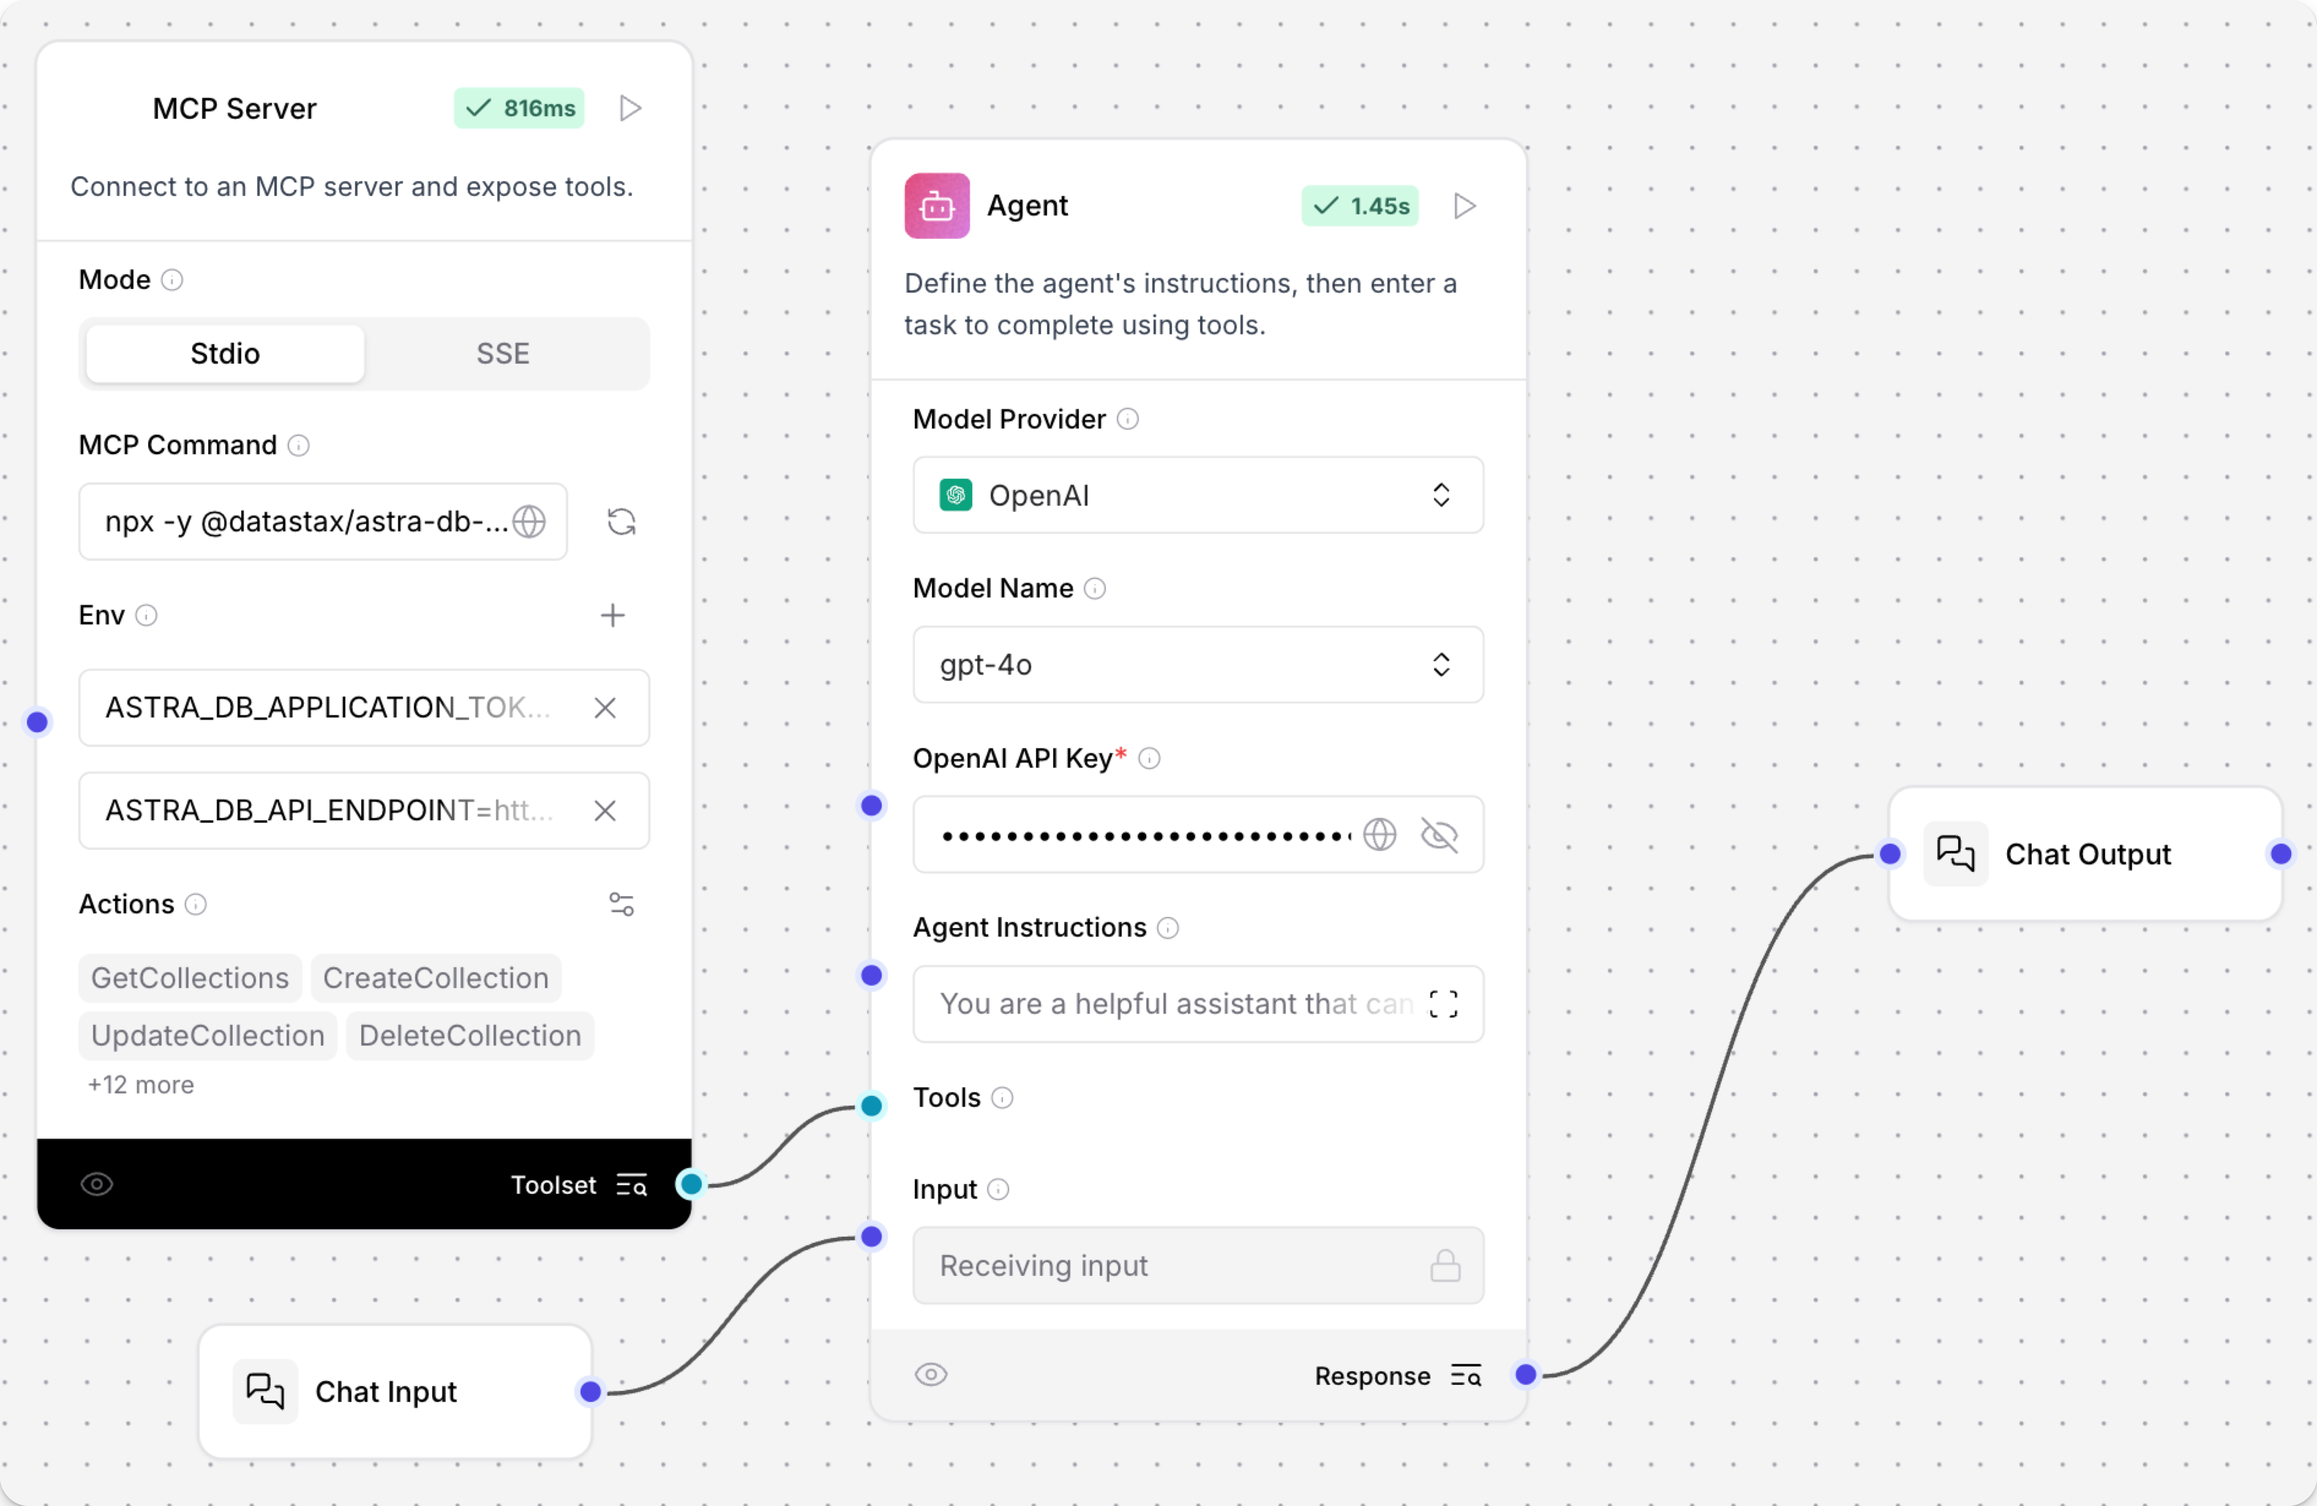
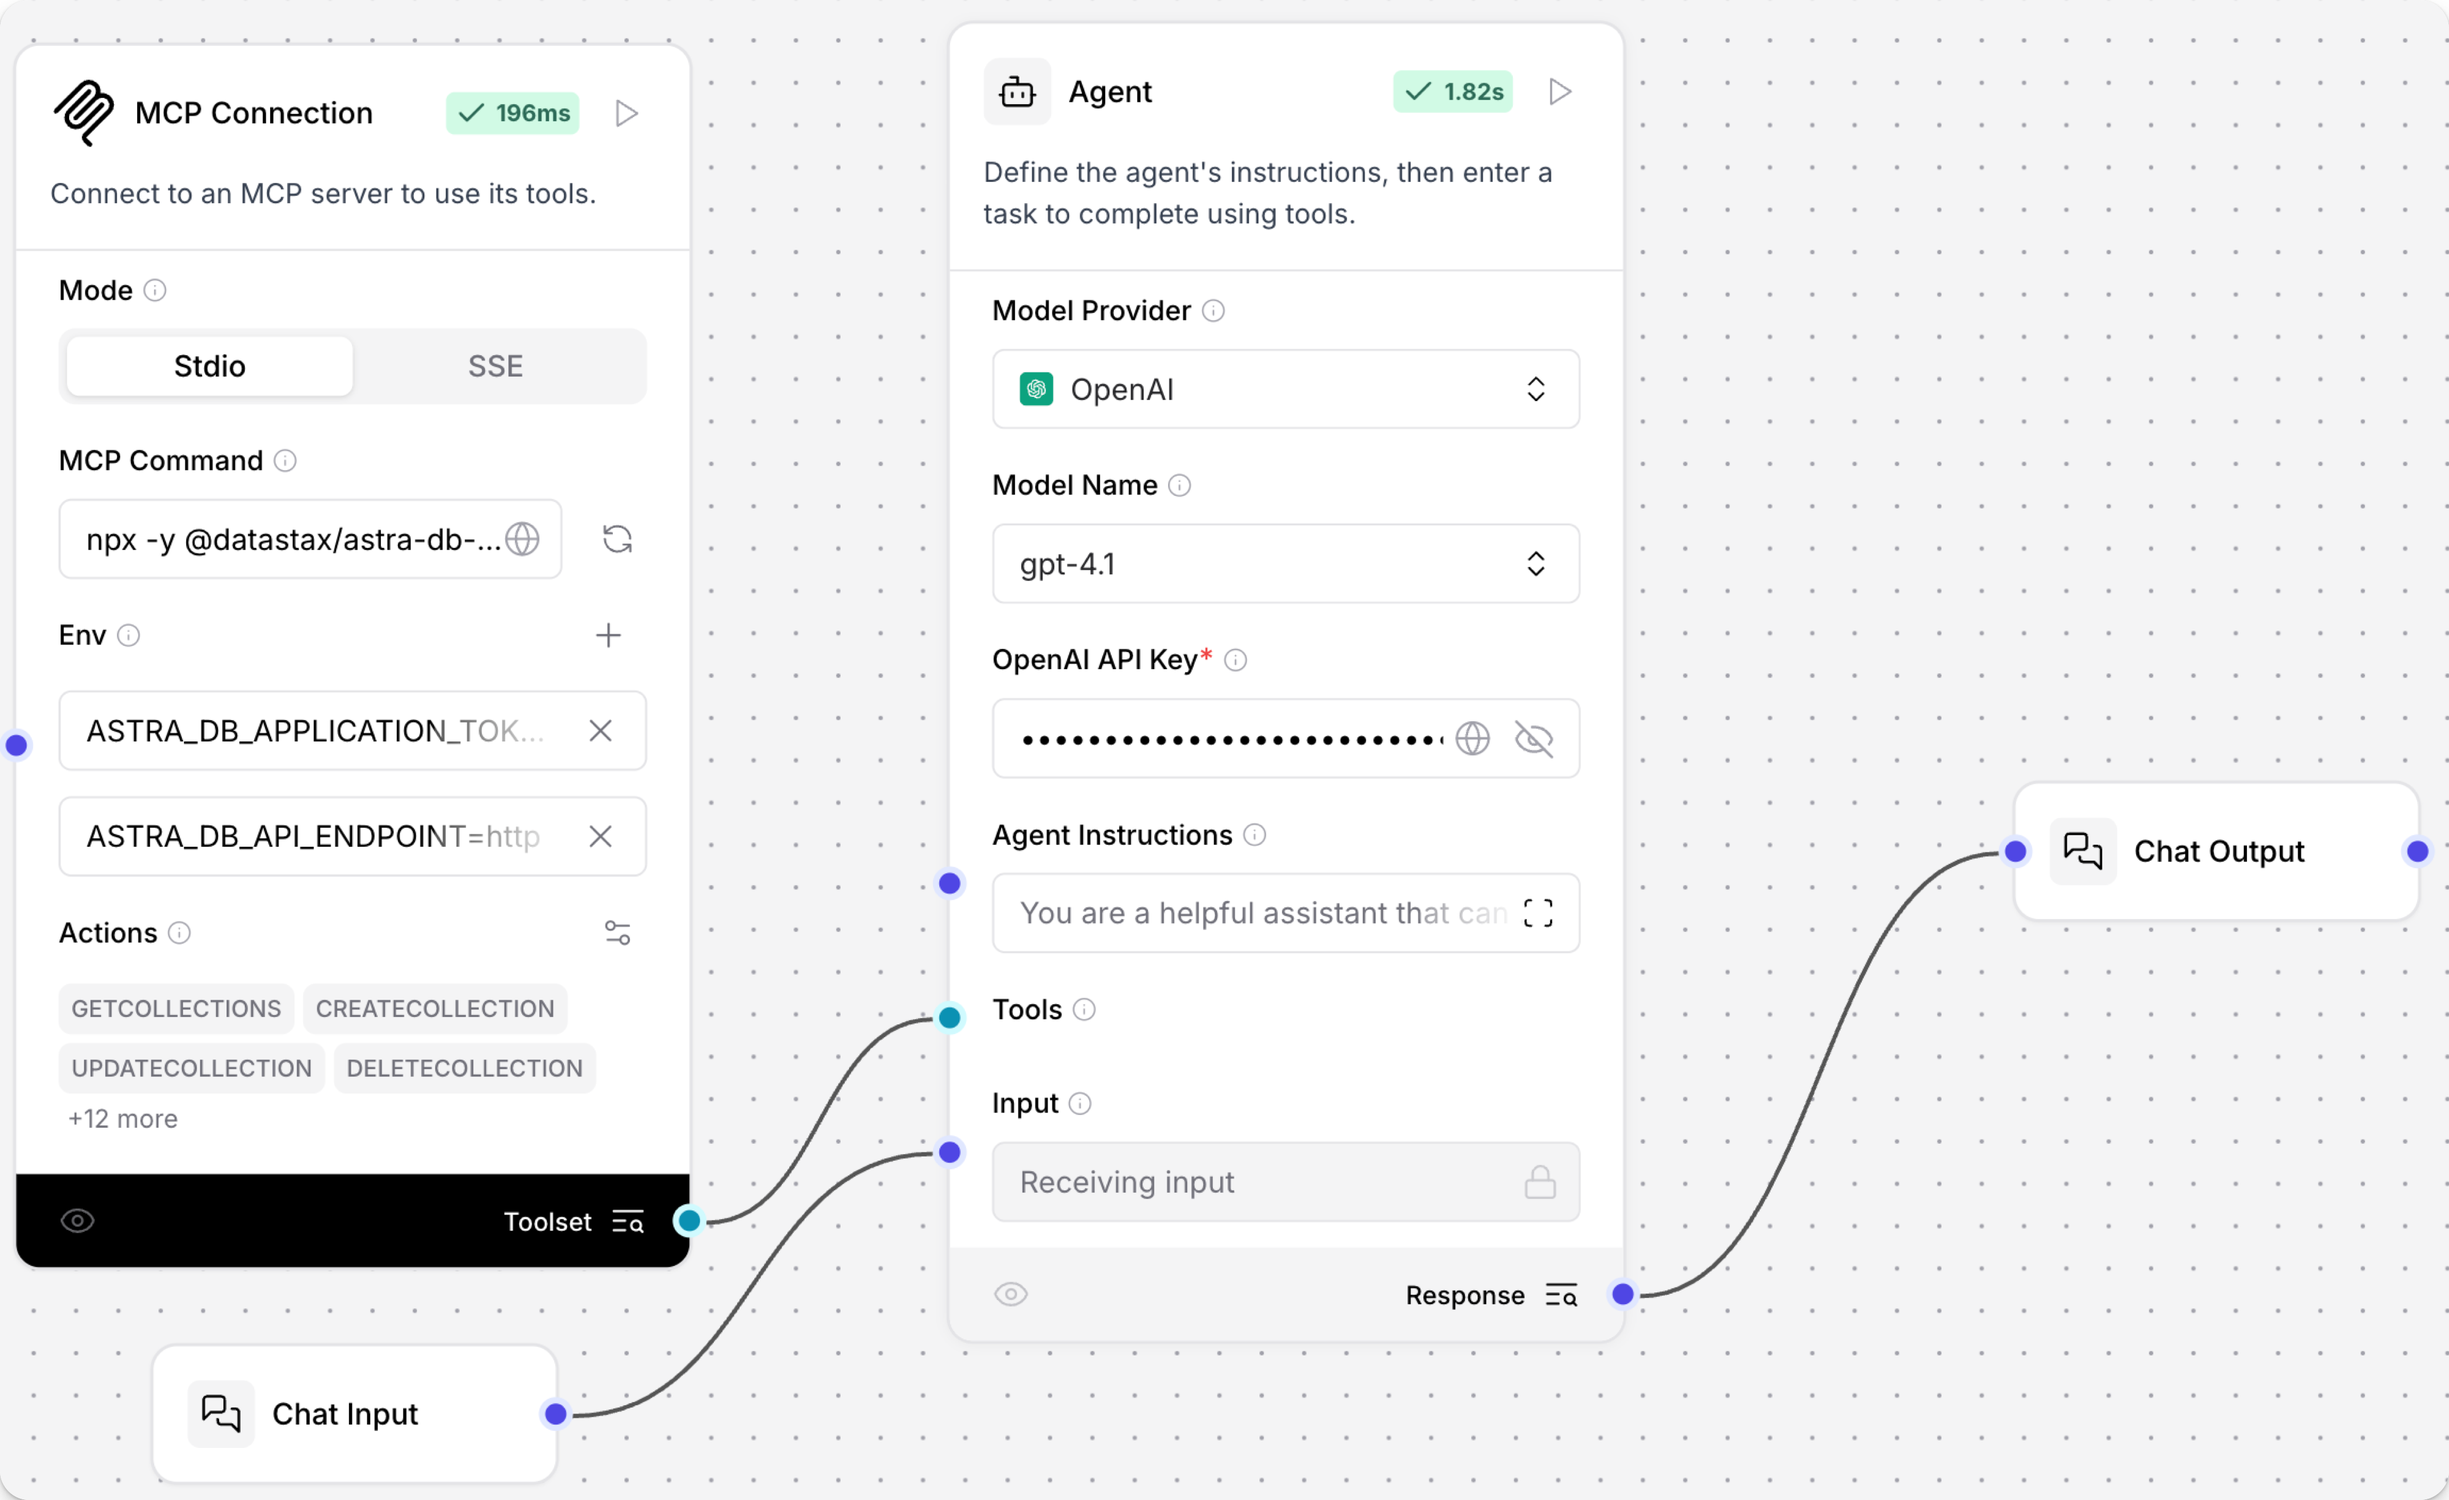
docs: mcp component name update (#8013)
* update-name-and-screenshots

* links

* update-astradb-screenshot

* sentence-case

* additional-linkfixes

diff --git a/docs/docs/Components/components-tools.md b/docs/docs/Components/components-tools.md
@@ -309,17 +309,17 @@ This component allows you to call the Serper.dev Google Search API.
 
 </details>
 
-## MCP server
+## MCP connection
 
-This component connects to a [Model Context Protocol (MCP)](https://modelcontextprotocol.io/introduction) server and exposes the MCP server's tools as tools for Langflow agents.
+The **MCP connection** component connects to a [Model Context Protocol (MCP)](https://modelcontextprotocol.io/introduction) server and exposes the MCP server's tools as tools for Langflow agents.
 
-In addition to being an MCP client that can leverage MCP servers, the MCP component's [SSE mode](#mcp-sse-mode) allows you to connect your flow to the Langflow MCP server at the `/api/v1/mcp/sse` API endpoint, exposing all flows within your [project](/concepts-overview#projects) as tools within a flow.
+In addition to being an MCP client that can leverage MCP servers, the **MCP connection** component's [SSE mode](#mcp-sse-mode) allows you to connect your flow to the Langflow MCP server at the `/api/v1/mcp/sse` API endpoint, exposing all flows within your [project](/concepts-overview#projects) as tools within a flow.
 
-To use the MCP server component with an agent component, follow these steps:
+To use the **MCP connection** component with an agent component, follow these steps:
 
-1. Add the MCP server component to your workflow.
+1. Add the **MCP connection** component to your workflow.
 
-2. In the MCP server component, in the **MCP Command** field, enter the command to start your MCP server. For example, to start a [Fetch](https://github.com/modelcontextprotocol/servers/tree/main/src/fetch) server, the command is:
+2. In the **MCP connection** component, in the **MCP Command** field, enter the command to start your MCP server. For example, to start a [Fetch](https://github.com/modelcontextprotocol/servers/tree/main/src/fetch) server, the command is:
 
     ```bash
     uvx mcp-server-fetch
@@ -347,11 +347,11 @@ To use the MCP server component with an agent component, follow these steps:
 The available fields change based on the selected tool.
 For information on the parameters, see the MCP server's documentation.
 
-5. In the MCP server component, enable **Tool mode**.
-Connect the MCP server component's **Toolset** port to an **Agent** component's **Tools** port.
+5. In the **MCP connection** component, enable **Tool mode**.
+Connect the **MCP connection** component's **Toolset** port to an **Agent** component's **Tools** port.
 
     The flow looks similar to this:
-    ![MCP server component](/img/component-mcp-stdio.png)
+    ![MCP connection component](/img/component-mcp-stdio.png)
 
 6. Open the **Playground**.
 Ask the agent to summarize recent tech news. The agent calls the MCP server function `fetch` and returns the summary.
@@ -368,16 +368,16 @@ If you're using **Langflow for Desktop**, the default address is `http://127.0.0
 The MCP component's SSE mode connects your flow to the Langflow MCP server through the component.
 This allows you to use all flows within your [project](/concepts-overview#projects) as tools within a flow.
 
-1. In the **MCP Server** component, select **SSE**.
+1. In the **MCP connection** component, select **SSE**.
 A default address appears in the **MCP SSE URL** field.
 2. In the **MCP SSE URL** field, modify the default address to point at the SSE endpoint of the Langflow server you're currently running.
 The default value is `http://localhost:7860/api/v1/mcp/sse`.
-3. In the **MCP Server** component, click <Icon name="RefreshCw" aria-label="Refresh"/> to retrieve the server's list of **Tools**.
+3. In the **MCP connection** component, click <Icon name="RefreshCw" aria-label="Refresh"/> to retrieve the server's list of **Tools**.
 4. Click the **Tools** field.
 All of your flows are listed as tools.
-5. Enable **Tool Mode**, and then connect the **MCP Server** component to an agent component's tool port.
+5. Enable **Tool Mode**, and then connect the **MCP connection** component to an agent component's tool port.
 The flow looks like this:
-![MCP server component](/img/component-mcp-sse-mode.png)
+![MCP component with SSE mode enabled](/img/component-mcp-sse-mode.png)
 6. Open the **Playground** and chat with your tool.
 The agent chooses the correct tool based on your query.
 
@@ -628,13 +628,13 @@ Deprecated components have been replaced by newer alternatives and should not be
 ### MCP Tools (stdio)
 :::important
 This component is deprecated as of Langflow version 1.3.
-Instead, use the [MCP server component](/components-tools#mcp-server)
+Instead, use the [MCP connection component](/components-tools#mcp-connection)
 :::
 
 
 ### MCP Tools (SSE)
 :::important
 This component is deprecated as of Langflow version 1.3.
-Instead, use the [MCP server component](/components-tools#mcp-server)
+Instead, use the [MCP connection component](/components-tools#mcp-connection)
 :::
 

diff --git a/docs/docs/Integrations/mcp-component-astra.md b/docs/docs/Integrations/mcp-component-astra.md
@@ -7,7 +7,7 @@ import Tabs from '@theme/Tabs';
 import TabItem from '@theme/TabItem';
 import Icon from "@site/src/components/icon";
 
-Use the [MCP server component](/components-tools#mcp-server) to connect Langflow to a [Datastax Astra DB MCP server](https://github.com/datastax/astra-db-mcp).
+Use the [MCP connection component](/components-tools#mcp-connection) to connect Langflow to a [Datastax Astra DB MCP server](https://github.com/datastax/astra-db-mcp).
 
 1. Install an LTS release of [Node.js](https://docs.npmjs.com/downloading-and-installing-node-js-and-npm).
 
@@ -19,18 +19,18 @@ Use the [MCP server component](/components-tools#mcp-server) to connect Langflow
 
 5. Create a [Simple agent starter project](/starter-projects-simple-agent).
 
-6. Remove the **URL** tool and replace it with an [MCP server](/components-tools#mcp-server) component.
+6. Remove the **URL** tool and replace it with an [MCP connection](/components-tools#mcp-connection) component.
 The flow should look like this:
 
-    ![MCP stdio component connecting to Astra](/img/component-mcp-astra-db.png)
+    ![MCP connection component connecting to Astra](/img/component-mcp-astra-db.png)
 
-7. In the **MCP server** component, in the **MCP server** field, add the following code to connect to an Astra DB MCP server:
+7. In the **MCP connection** component, in the **MCP server** field, add the following code to connect to an Astra DB MCP server:
 
     ```bash
     npx -y @datastax/astra-db-mcp
     ```
 
-8. In the **MCP server** component, in the **Env** fields, add variables for `ASTRA_DB_APPLICATION_TOKEN` and `ASTRA_DB_API_ENDPOINT` with the values from your Astra database.
+8. In the **MCP connection** component, in the **Env** fields, add variables for `ASTRA_DB_APPLICATION_TOKEN` and `ASTRA_DB_API_ENDPOINT` with the values from your Astra database.
 
     :::important
     Langflow passes environment variables from the `.env` file to MCP, but not global variables declared in the UI.

diff --git a/docs/docs/Concepts/mcp-server.md b/docs/docs/Concepts/mcp-server.md
@@ -9,7 +9,7 @@ import Icon from "@site/src/components/icon";
 
 Langflow integrates with the [Model Context Protocol (MCP)](https://modelcontextprotocol.io/introduction) as both an MCP server and an MCP client.
 This page describes how to use Langflow as an *MCP server*.
-For information about using Langflow as an *MCP client*, see the [MCP component](/components-tools#mcp-server).
+For information about using Langflow as an *MCP client*, see the [MCP connection component](/components-tools#mcp-connection).
 
 As an MCP server, Langflow exposes your flows as [tools](https://modelcontextprotocol.io/docs/concepts/tools) that [MCP clients](https://modelcontextprotocol.io/clients) can use use to take actions.
 
